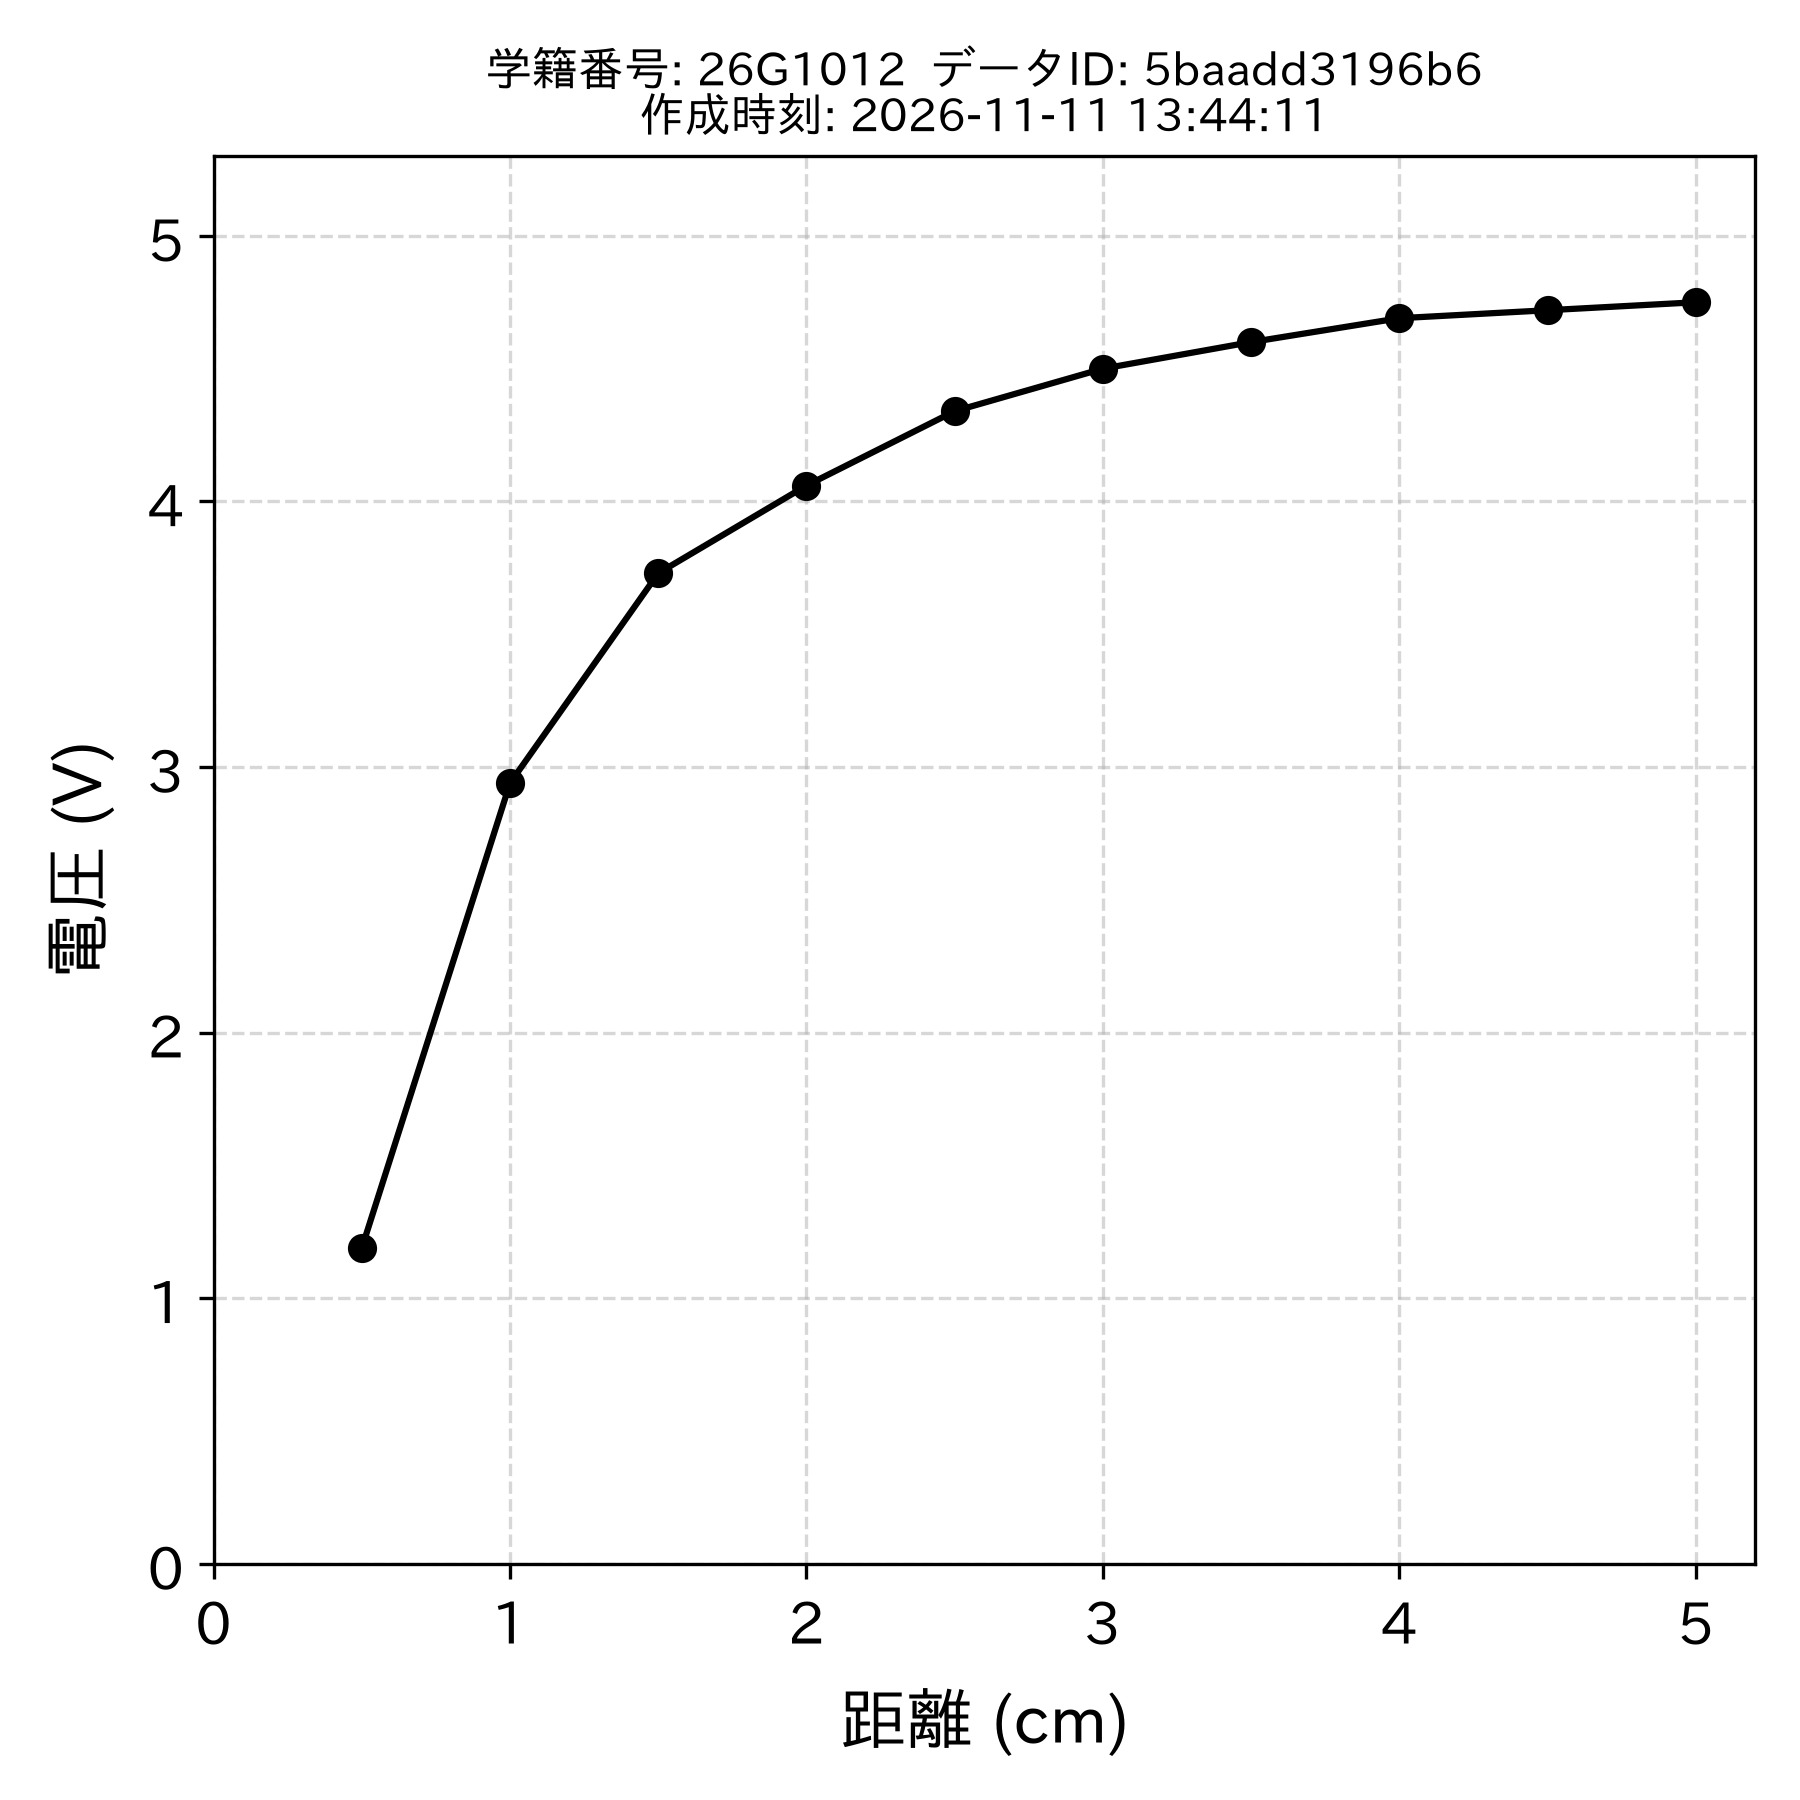
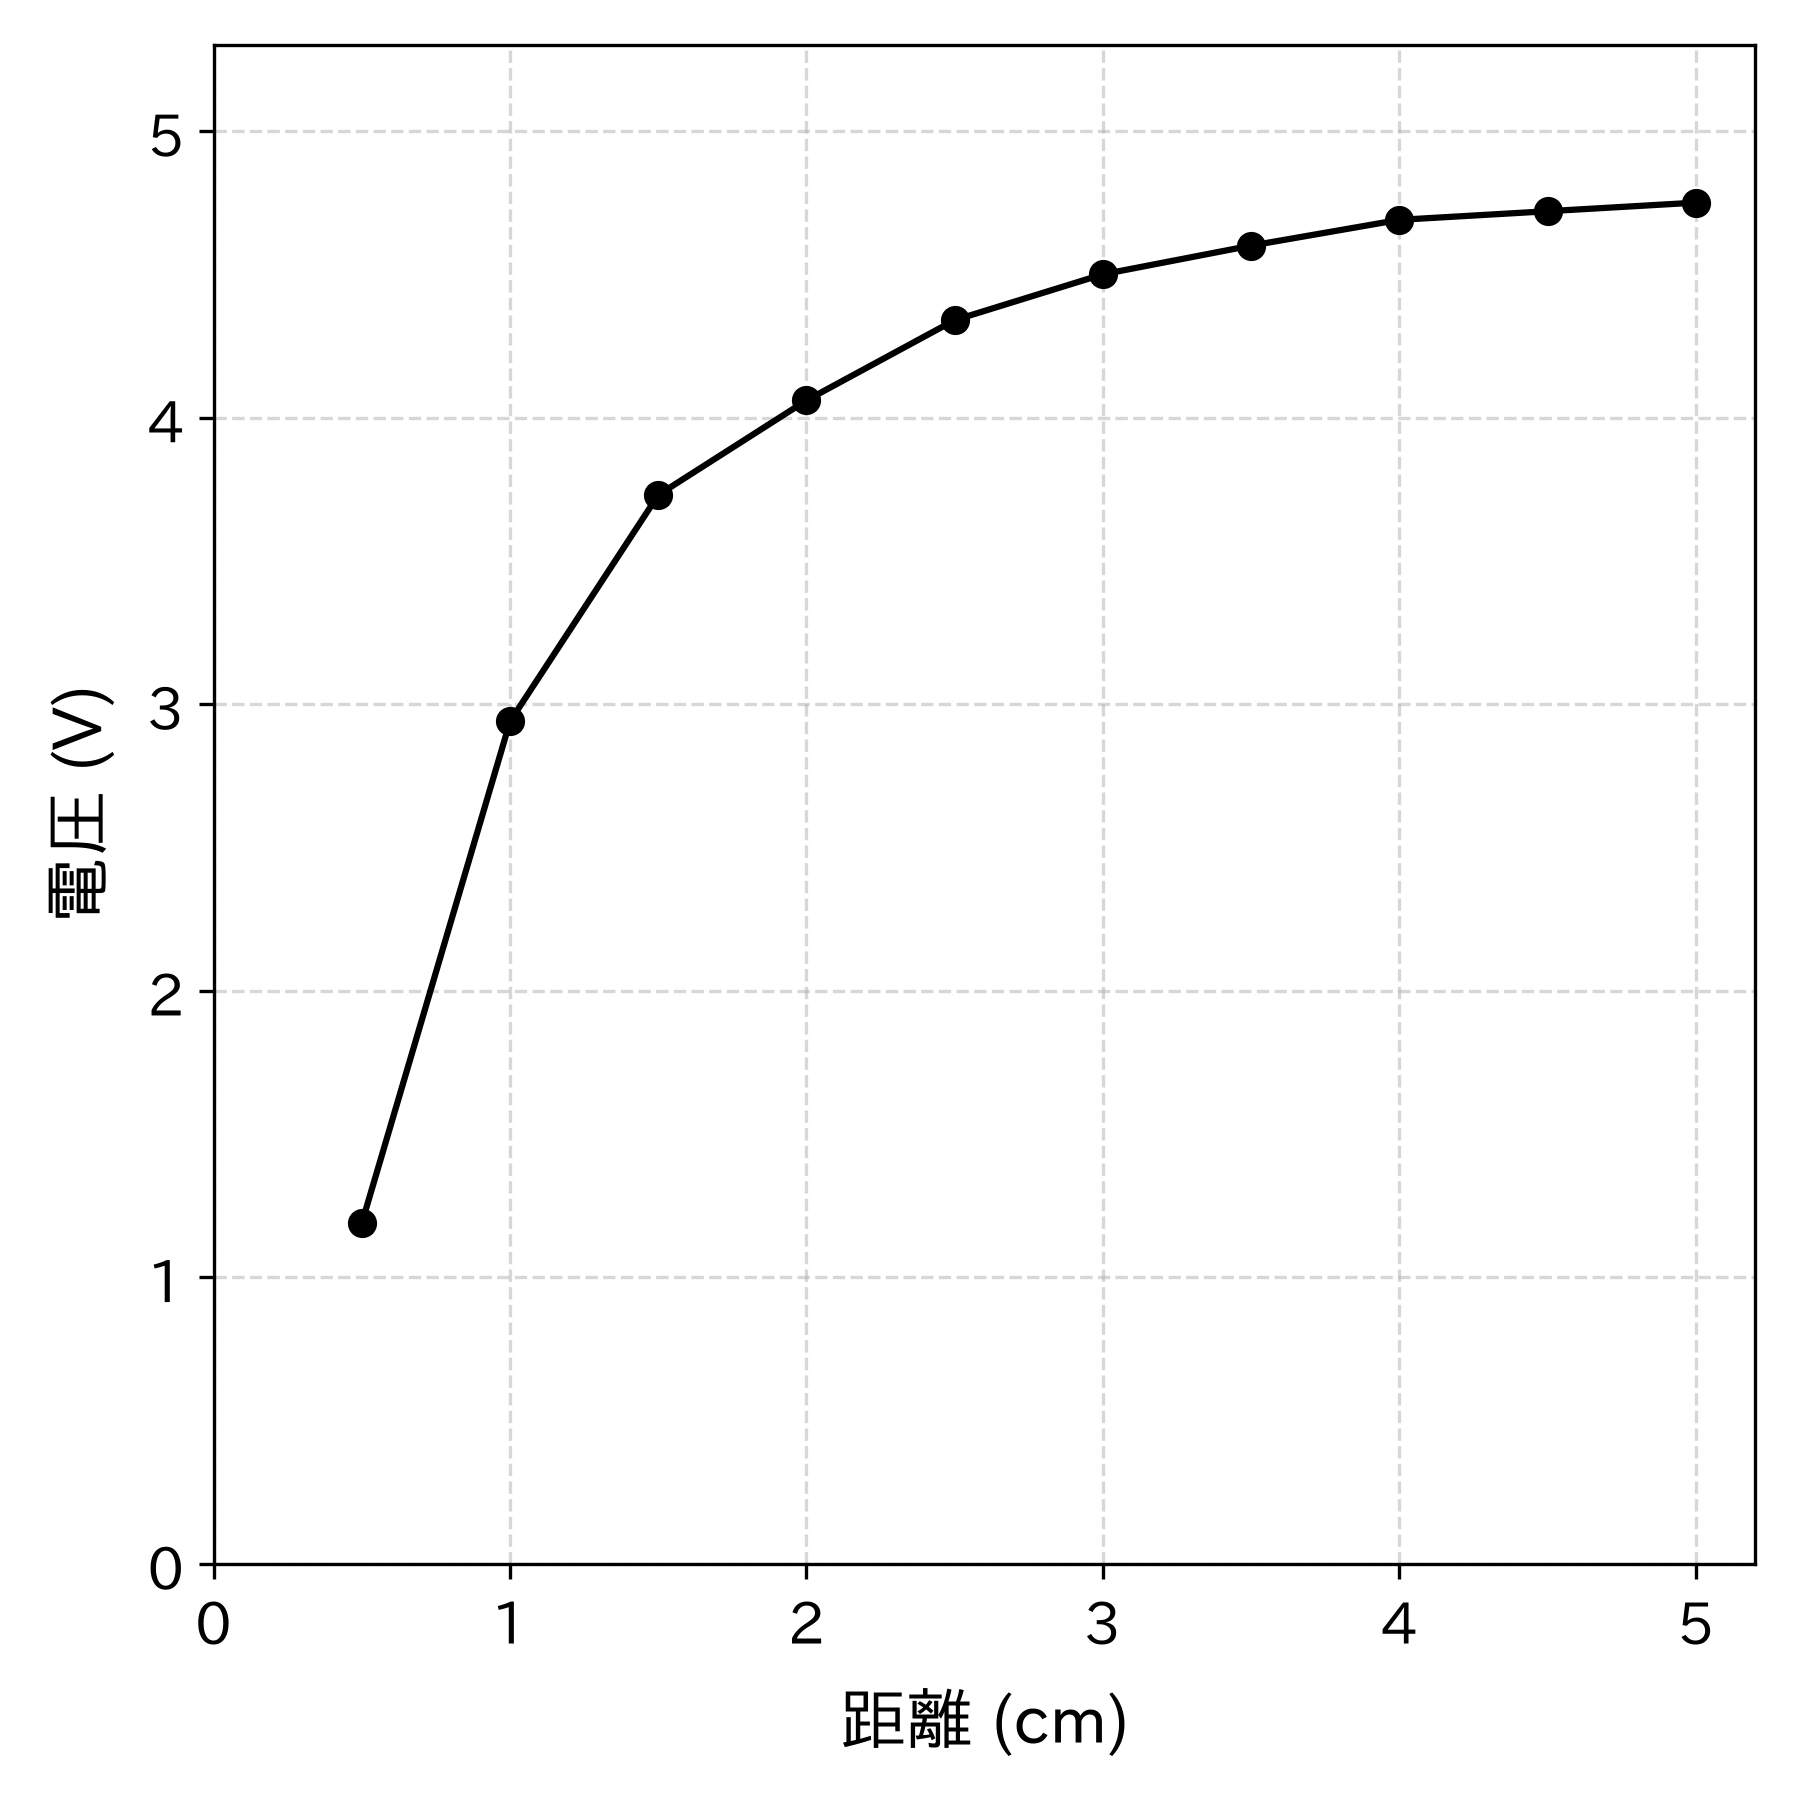
style(workC): C-1のグラフタイトルを削除しC-2/C-3と統一

diff --git a/work/workC/work_C.py b/work/workC/work_C.py
@@ -37,18 +37,7 @@ def _():
     import pandas as pd
     import requests
 
-    return (
-        Path,
-        datetime,
-        deque,
-        hashlib,
-        np,
-        pd,
-        plt,
-        requests,
-        threading,
-        time,
-    )
+    return Path, datetime, deque, np, pd, plt, requests, threading, time
 
 
 @app.cell(hide_code=True)
@@ -86,12 +75,8 @@ def _():
 
 
 @app.cell
-def _(Path, d, datetime, hashlib, pd, plt, student_id, v):
+def _(Path, d, plt, v):
     fig_c1, ax_c1 = plt.subplots(figsize=(6, 6))
-
-    df_c1 = pd.DataFrame({"distance_cm": d, "voltage_v": v})
-    canonical_c1 = df_c1.to_csv(index=False, lineterminator="\n", float_format="%.10g")
-    data_id_c1 = hashlib.sha256(canonical_c1.encode("utf-8")).hexdigest()[:12]
 
     ax_c1.plot(d, v, "ko-", markersize=6, linewidth=1.5)
     ax_c1.set_xlabel("距離 (cm)", fontsize=16, labelpad=8)
@@ -100,12 +85,6 @@ def _(Path, d, datetime, hashlib, pd, plt, student_id, v):
     ax_c1.set_ylim(0, 5.3)
     ax_c1.tick_params(labelsize=14)
     ax_c1.grid(True, linestyle="--", alpha=0.5)
-
-    created_at_c1 = datetime.now().strftime("%Y-%m-%d %H:%M:%S")
-    ax_c1.set_title(
-        f"学籍番号: {student_id}  データID: {data_id_c1}\n作成時刻: {created_at_c1}",
-        fontsize=11,
-    )
     plt.tight_layout()
 
     out_c1 = Path("result_C1.png")
